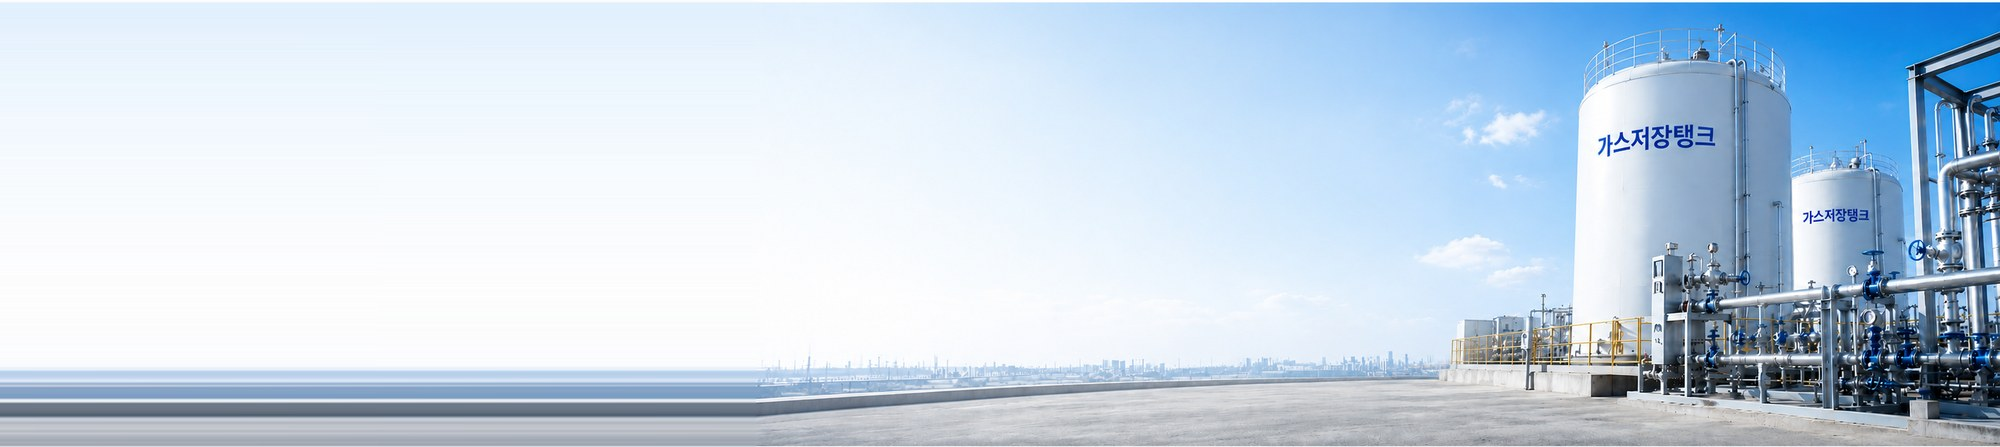
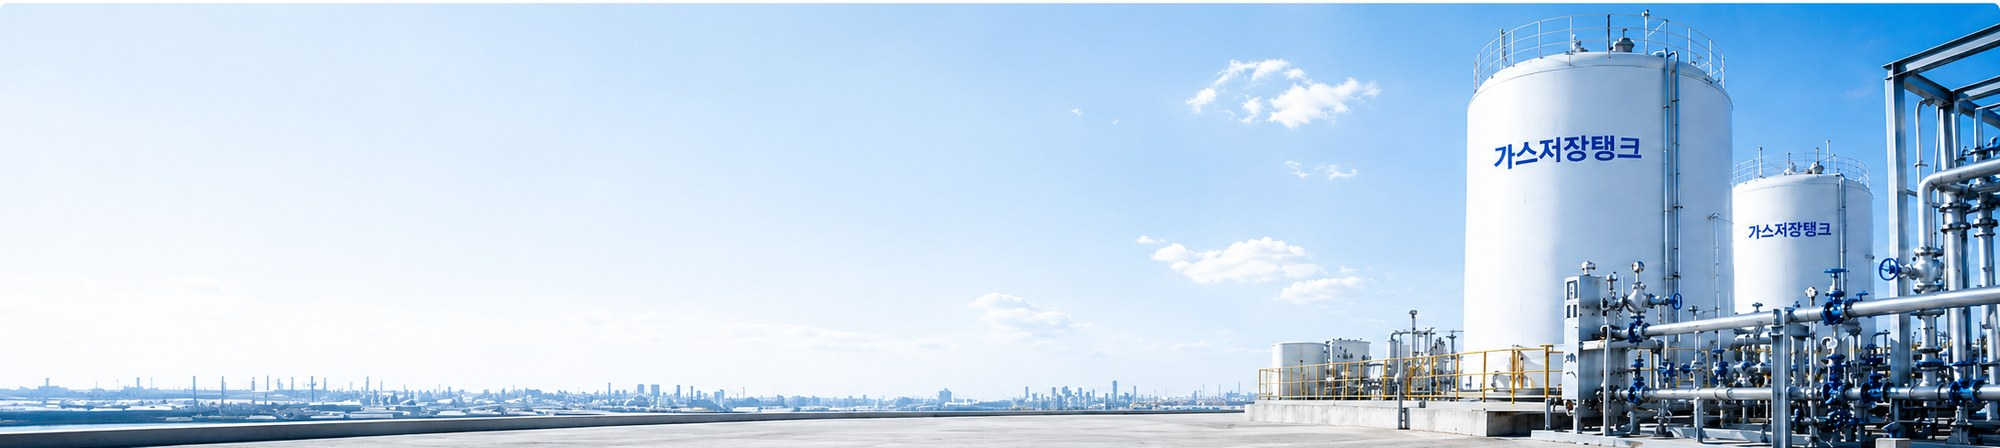
고객지원 헤더: 문의(글로브·연락 아이콘) 이미지로 교체(4.47:1) + 좌측 헤드셋·고객지원 텍스트 오버레이 추가; 시설·시공 헤더: 넓은 가스저장탱크 이미지로 교체(4.47:1)

diff --git a/support.html b/support.html
@@ -75,11 +75,18 @@
     </div>
   </header>
 
-  <section class="page-hero">
-    <div class="container">
-      <p class="breadcrumb"><a href="index.html">HOME</a> · <span data-i18n="nav.support">고객지원</span></p>
-      <h1 data-i18n="support.hero.title">고객지원</h1>
-      <p data-i18n="support.hero.lead">문의는 전화 또는 가까운 사업장으로 연락 주세요. 신속하게 안내해 드립니다.</p>
+  <section class="page-banner page-banner--overlay">
+    <img class="page-banner__bg" src="assets/images/site/page-hero-support.jpg?v=20260715-4" alt="고객지원 — 전화·채팅·이메일 문의 안내">
+    <div class="gas-banner">
+      <div class="gas-banner__wrap">
+        <div class="gas-banner__col">
+          <h1 class="gas-banner__title sup-title">
+            <svg class="sup-title__icon" viewBox="0 0 24 24" fill="none" stroke="currentColor" stroke-width="1.6" stroke-linecap="round" stroke-linejoin="round" aria-hidden="true"><path d="M4 13v-1a8 8 0 0 1 16 0v1"/><rect x="2.5" y="12.5" width="4" height="6.5" rx="2"/><rect x="17.5" y="12.5" width="4" height="6.5" rx="2"/><path d="M19.5 19v.8a3 3 0 0 1-3 3H14"/></svg>
+            <span>고객지원</span>
+          </h1>
+          <p class="gas-banner__sub">신속하고 정확한 답변으로 언제나 고객과 함께합니다.</p>
+        </div>
+      </div>
     </div>
   </section>
 

diff --git a/assets/css/style.css b/assets/css/style.css
@@ -474,6 +474,10 @@ section[id] { scroll-margin-top: 88px; }
 .gas-banner--const .gas-banner__rule { margin: clamp(8px,1.1vw,15px) 0 clamp(10px,1.3vw,18px); }
 /* 강조어(가스저장탱크·가스공급설비) 색을 DRY ICE 타이틀 색과 동일하게 */
 .gas-banner--const .gas-banner__title b { color: #17457f; }
+
+/* 고객지원: 헤드셋 아이콘 + 제목 인라인 배치(참고 이미지) */
+.sup-title { display: flex; align-items: center; gap: 0.32em; }
+.sup-title__icon { width: 0.92em; height: 0.92em; color: #17457f; flex: none; }
 .gas-banner__sub {
   font-size: clamp(13px, 1.5vw, 21px); font-weight: 500; color: #3a4654;
   margin: clamp(4px, 0.6vw, 9px) 0 0;

diff --git a/products-construction.html b/products-construction.html
@@ -76,7 +76,7 @@
   </header>
 
   <section class="page-banner page-banner--overlay">
-    <img class="page-banner__bg" src="assets/images/site/page-hero-construction.jpg?v=20260715-10" alt="시설·시공 — 가스 저장탱크·배관·공급설비 시공">
+    <img class="page-banner__bg" src="assets/images/site/page-hero-construction.jpg?v=20260715-11" alt="시설·시공 — 가스 저장탱크·배관·공급설비 시공">
     <div class="gas-banner gas-banner--const">
       <div class="gas-banner__wrap">
         <div class="gas-banner__col">